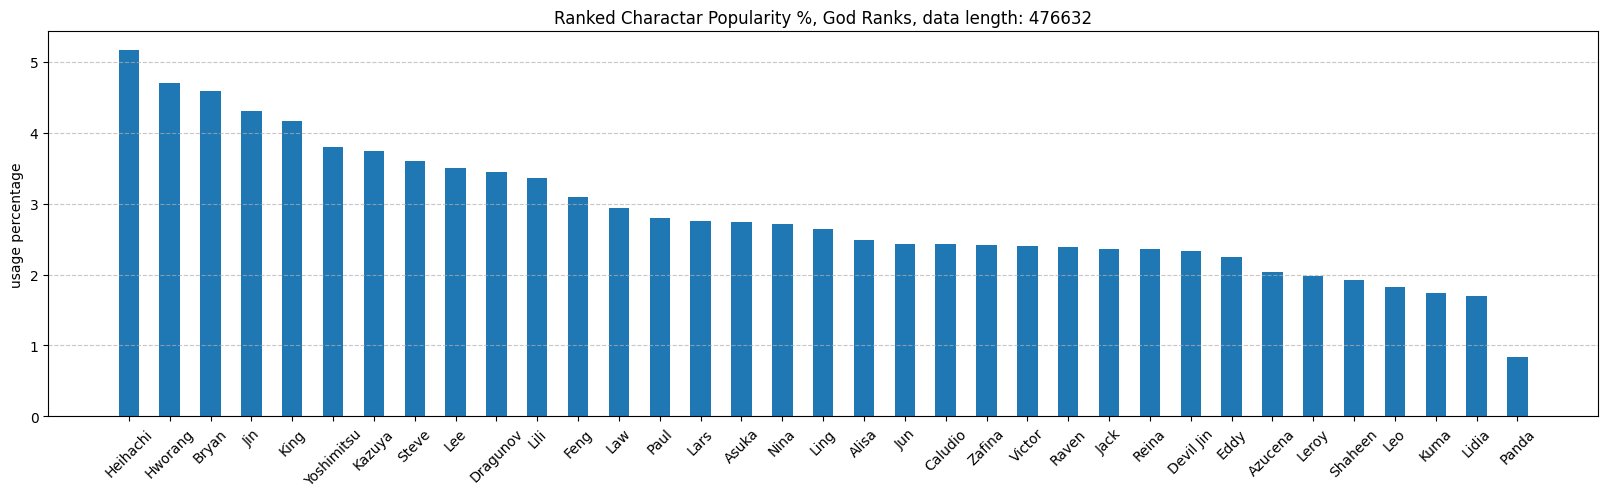
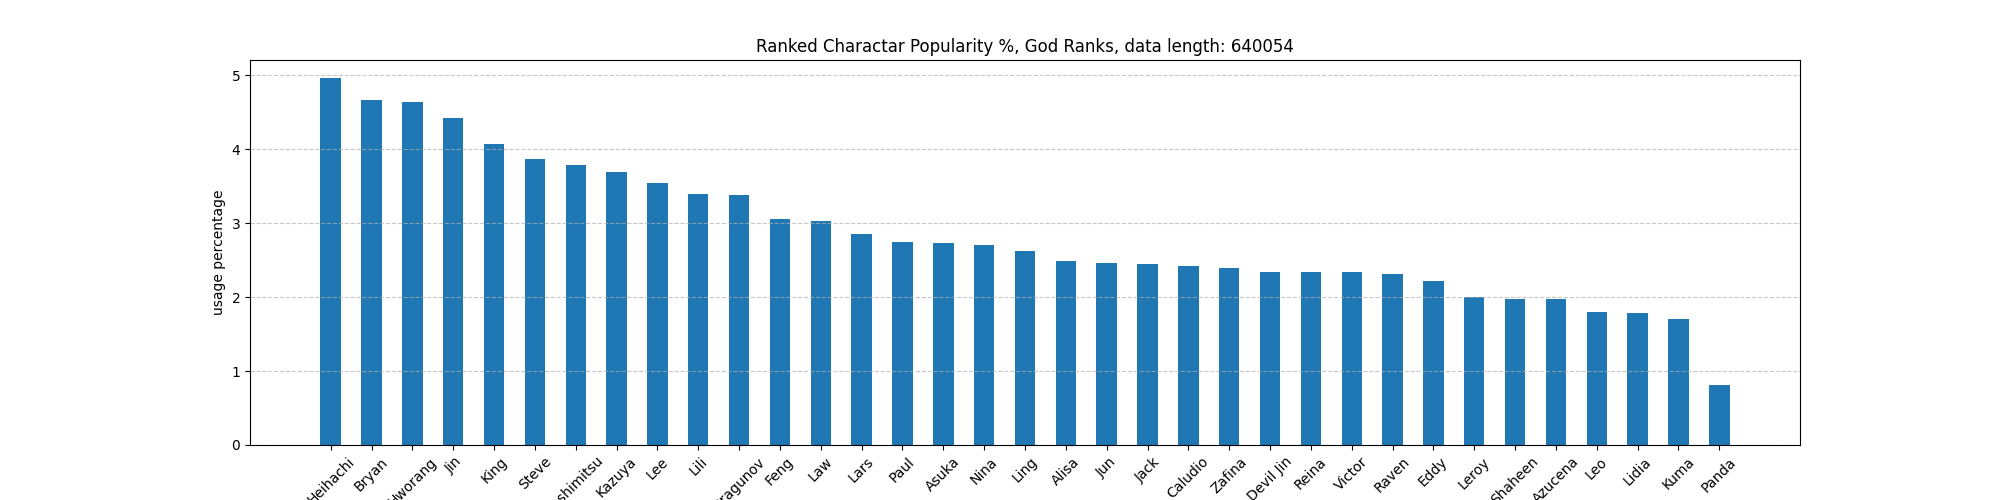
readme update, Oct 22nd to Nov 28th

Changed region(s): [[0.0622, 0.0301, 0.9639, 1.0], [0.0, 0.3313, 0.0311, 0.5723]]

diff --git a/readme.md b/readme.md
@@ -2,8 +2,8 @@
 
 Wrote some code to collect ranked replay data from "wavu wank" api: https://wank.wavu.wiki/api
 
-**There are 13,481,323 replay data, with 344,144 players who have played at least one game of ranked**:
-- Replays are from November 8th to December 8th 2024
+**There are over 10 million replay data, with over 300k players who have played at least one game of ranked**:
+- Replays are from October 22nd to November 28th 2024
 - Ranked matches only
 
 **Data is put into 3 categories**:
